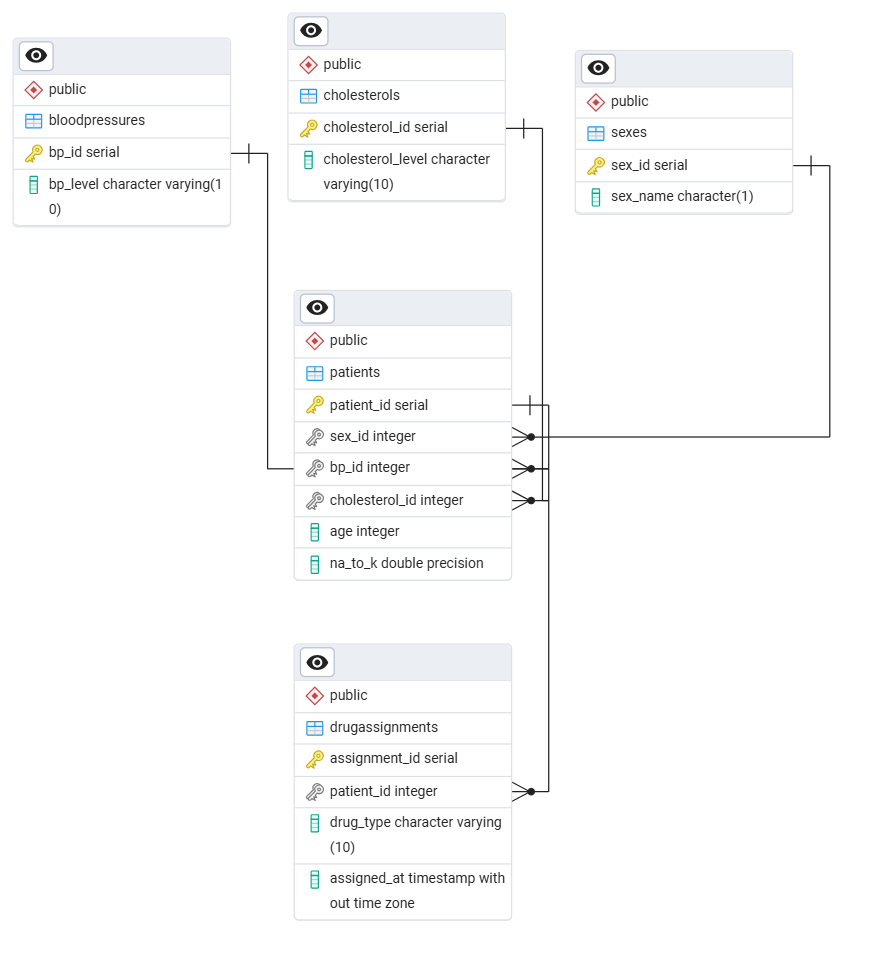
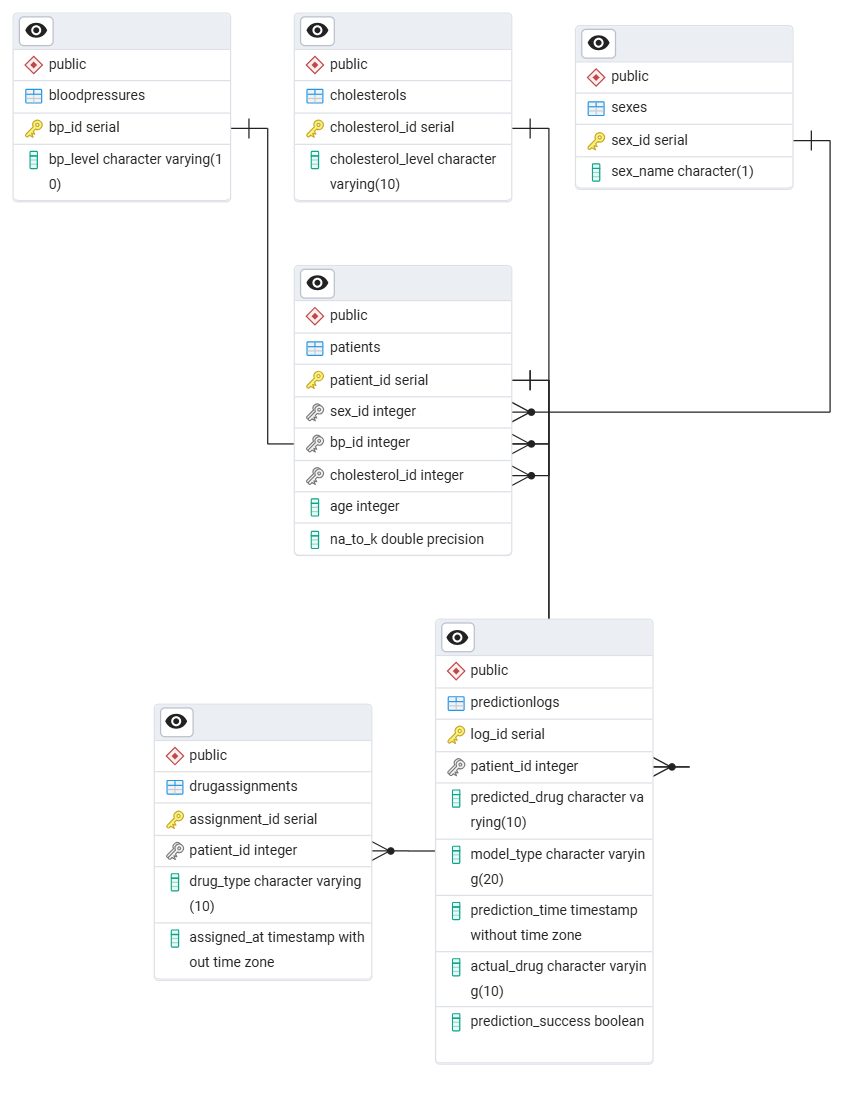
created predictionlogs table abd synchronized with mongoDB and postgreSQL

diff --git a/api/main.py b/api/main.py
@@ -5,6 +5,7 @@ from datetime import datetime
 from api.models.patient_models import PatientIn
 from api.db.postgres import get_pg_conn
 from api.db.mongo import get_mongo_db
+from api.models.prediction_log_models import PredictionLogIn
 
 import joblib
 import os
@@ -331,3 +332,41 @@ def predict_latest_patient(data: PredictionRequest):
             "na_to_k": patient["na_to_k"]
         }
     }
+
+@app.post("/prediction-logs/", status_code=201)
+def create_prediction_log(log: PredictionLogIn):
+    if log.db_used == "postgresql":
+        with get_pg_conn() as conn:
+            cur = conn.cursor()
+            cur.execute(
+                """
+                INSERT INTO PredictionLogs (patient_id, predicted_drug, model_type, prediction_time, actual_drug, prediction_success)
+                VALUES (%s, %s, %s, %s, %s, %s)
+                RETURNING log_id
+                """,
+                (
+                    log.patient_id,
+                    log.predicted_drug,
+                    log.model_type,
+                    log.prediction_time or datetime.now(),
+                    log.actual_drug,
+                    log.prediction_success
+                )
+            )
+            log_id = cur.fetchone()[0]
+            conn.commit()
+        return {"log_id": log_id, "db_used": "postgresql"}
+    elif log.db_used == "mongodb":
+        db = get_mongo_db()
+        doc = {
+            "patient_id": log.patient_id,
+            "predicted_drug": log.predicted_drug,
+            "model_type": log.model_type,
+            "prediction_time": log.prediction_time or datetime.utcnow(),
+            "actual_drug": log.actual_drug,
+            "prediction_success": log.prediction_success
+        }
+        result = db.PredictionLogs.insert_one(doc)
+        return {"log_id": str(result.inserted_id), "db_used": "mongodb"}
+    else:
+        raise HTTPException(status_code=400, detail="Invalid db_used. Must be 'postgresql' or 'mongodb'.")

diff --git a/api/models/prediction_log_models.py b/api/models/prediction_log_models.py
@@ -1,0 +1,12 @@
+from pydantic import BaseModel
+from typing import Optional
+from datetime import datetime
+
+class PredictionLogIn(BaseModel):
+    patient_id: int
+    predicted_drug: str
+    model_type: str
+    prediction_time: Optional[datetime] = None
+    actual_drug: Optional[str] = None
+    prediction_success: Optional[bool] = None
+    db_used: str  # "postgresql" or "mongodb"
